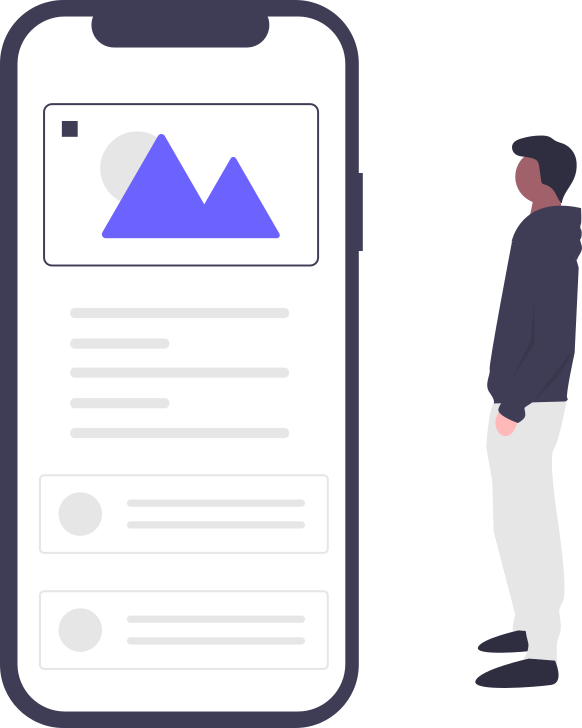
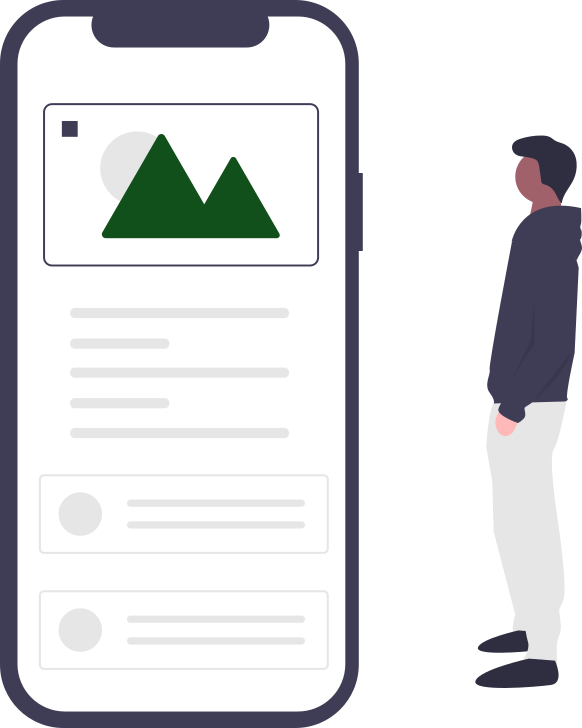
Update UI prototypes

Changed region(s): [[0.1546, 0.1813, 0.4948, 0.3324]]

diff --git a/UI/Mockup/README.md b/UI/Mockup/README.md
@@ -1,0 +1,1 @@
+Credit due to undraw.co for their open source svg images which we have used and modified
